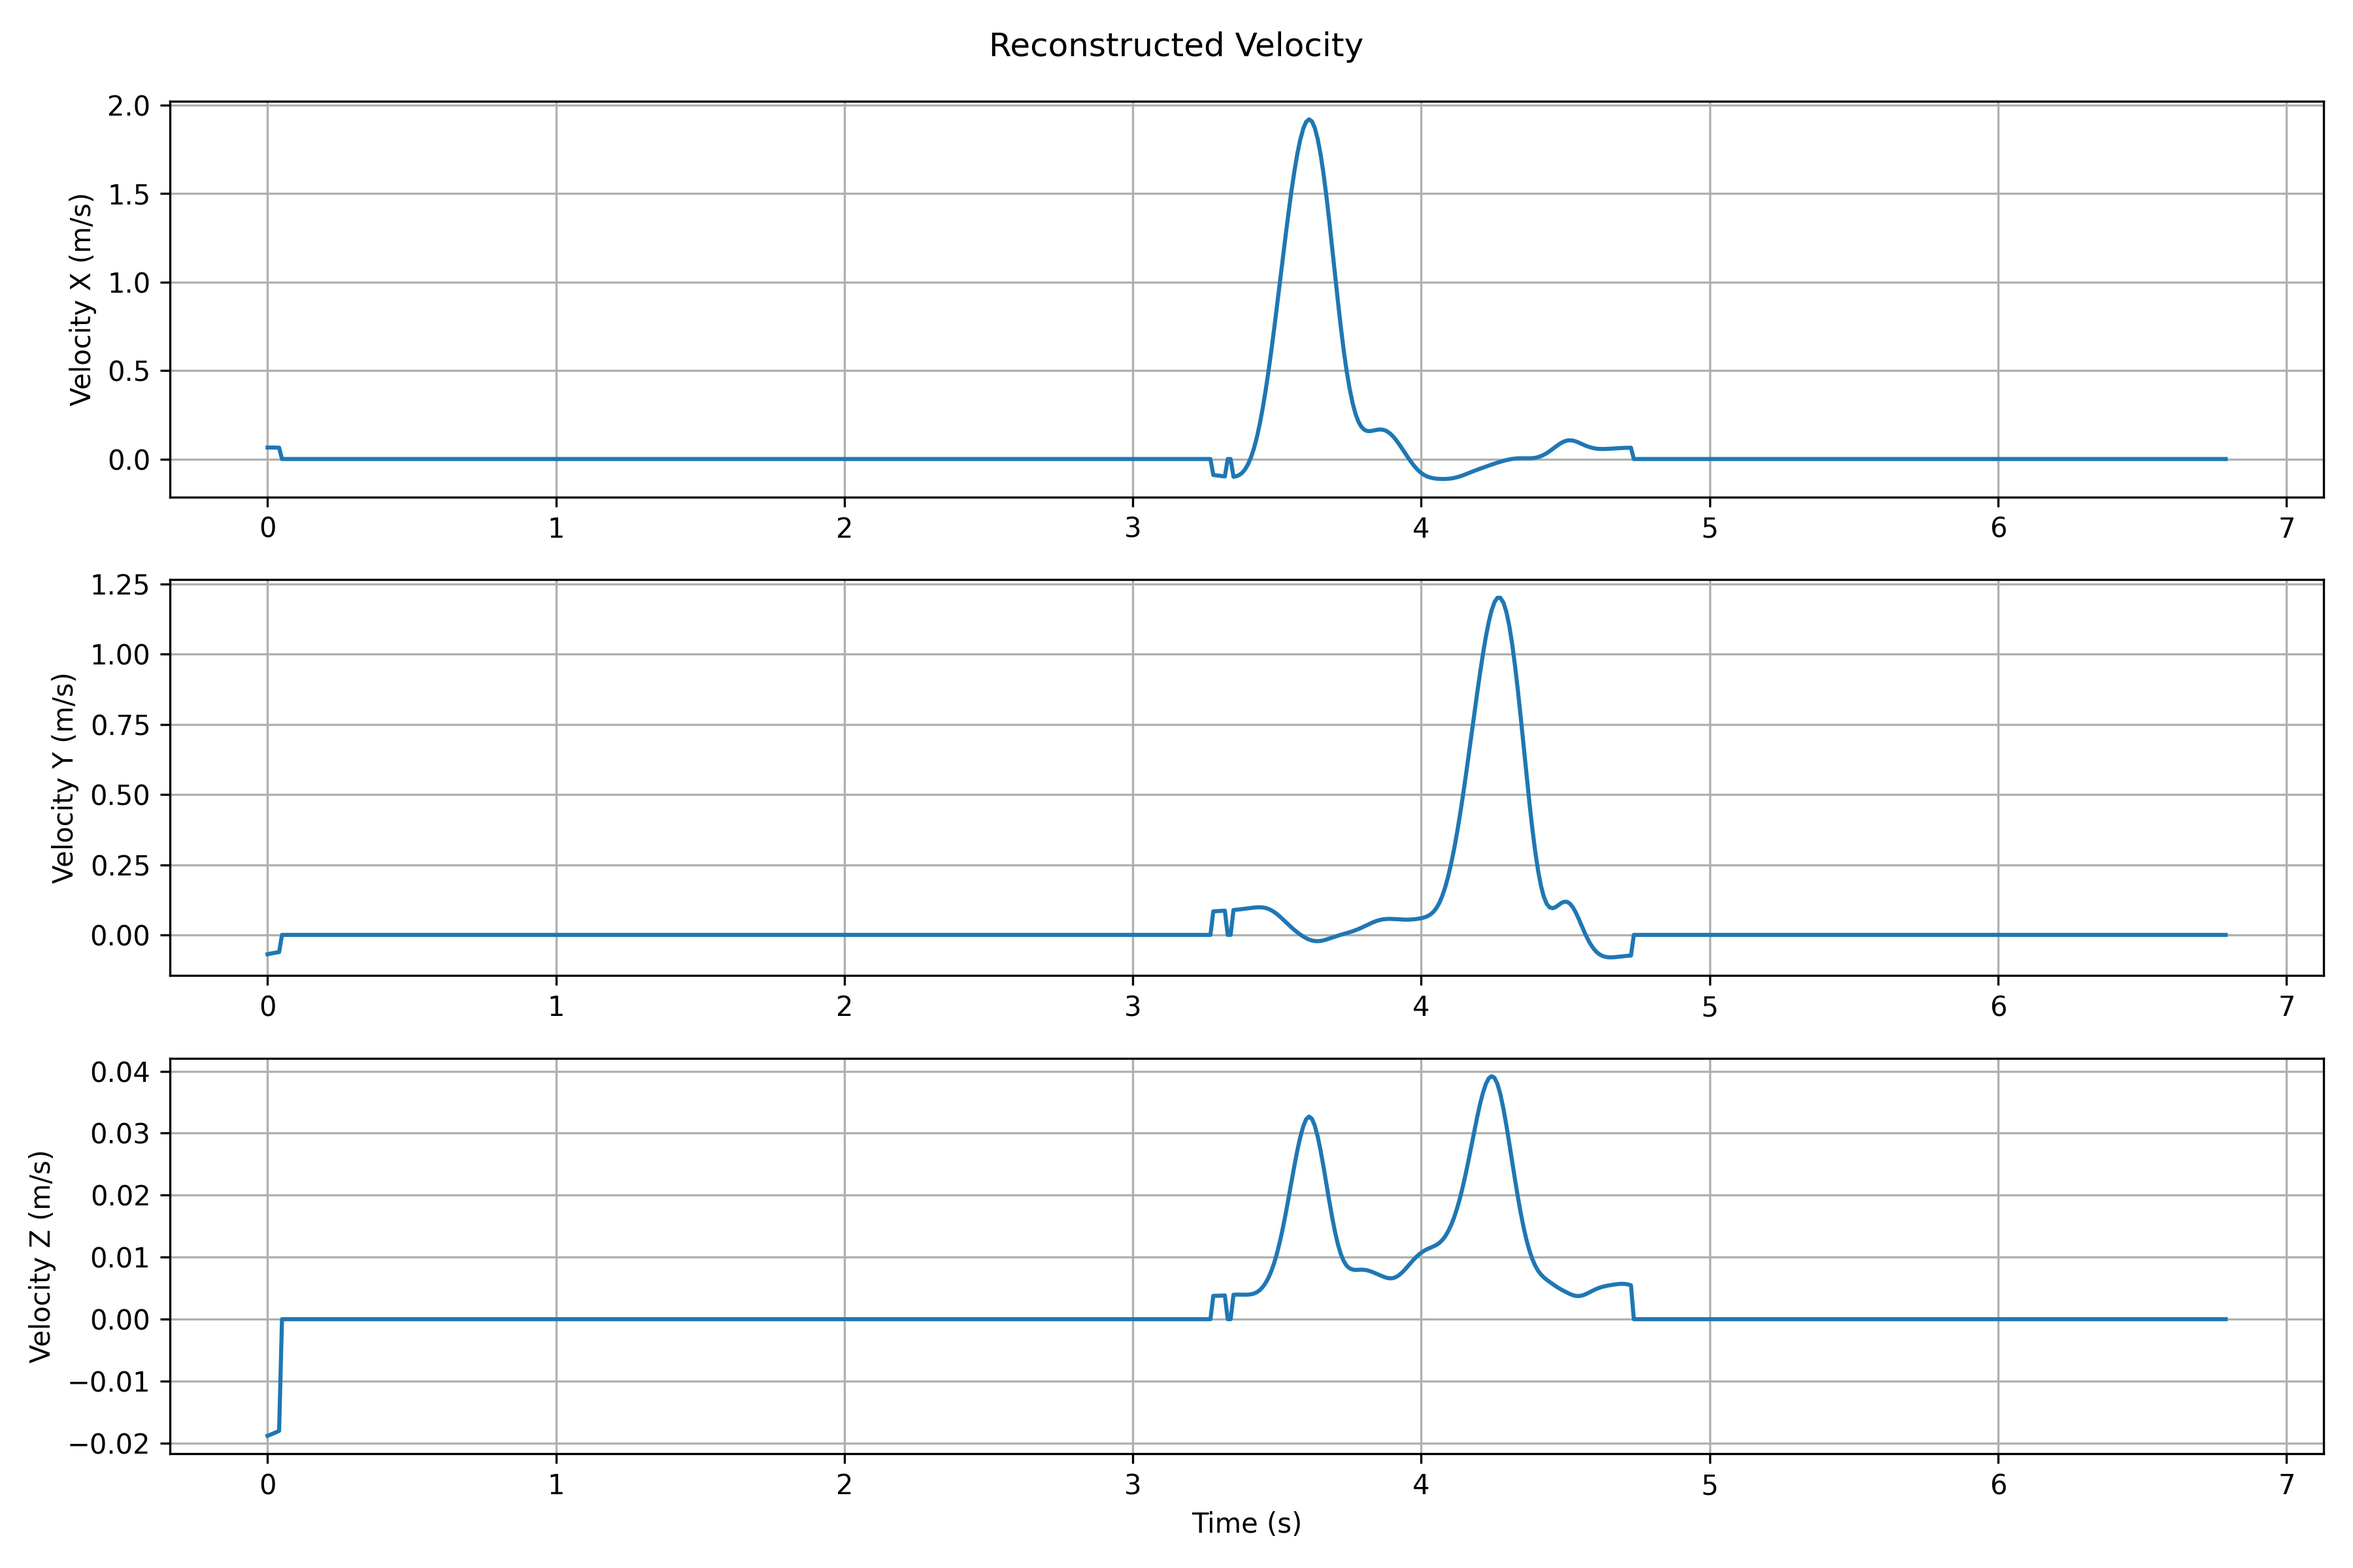
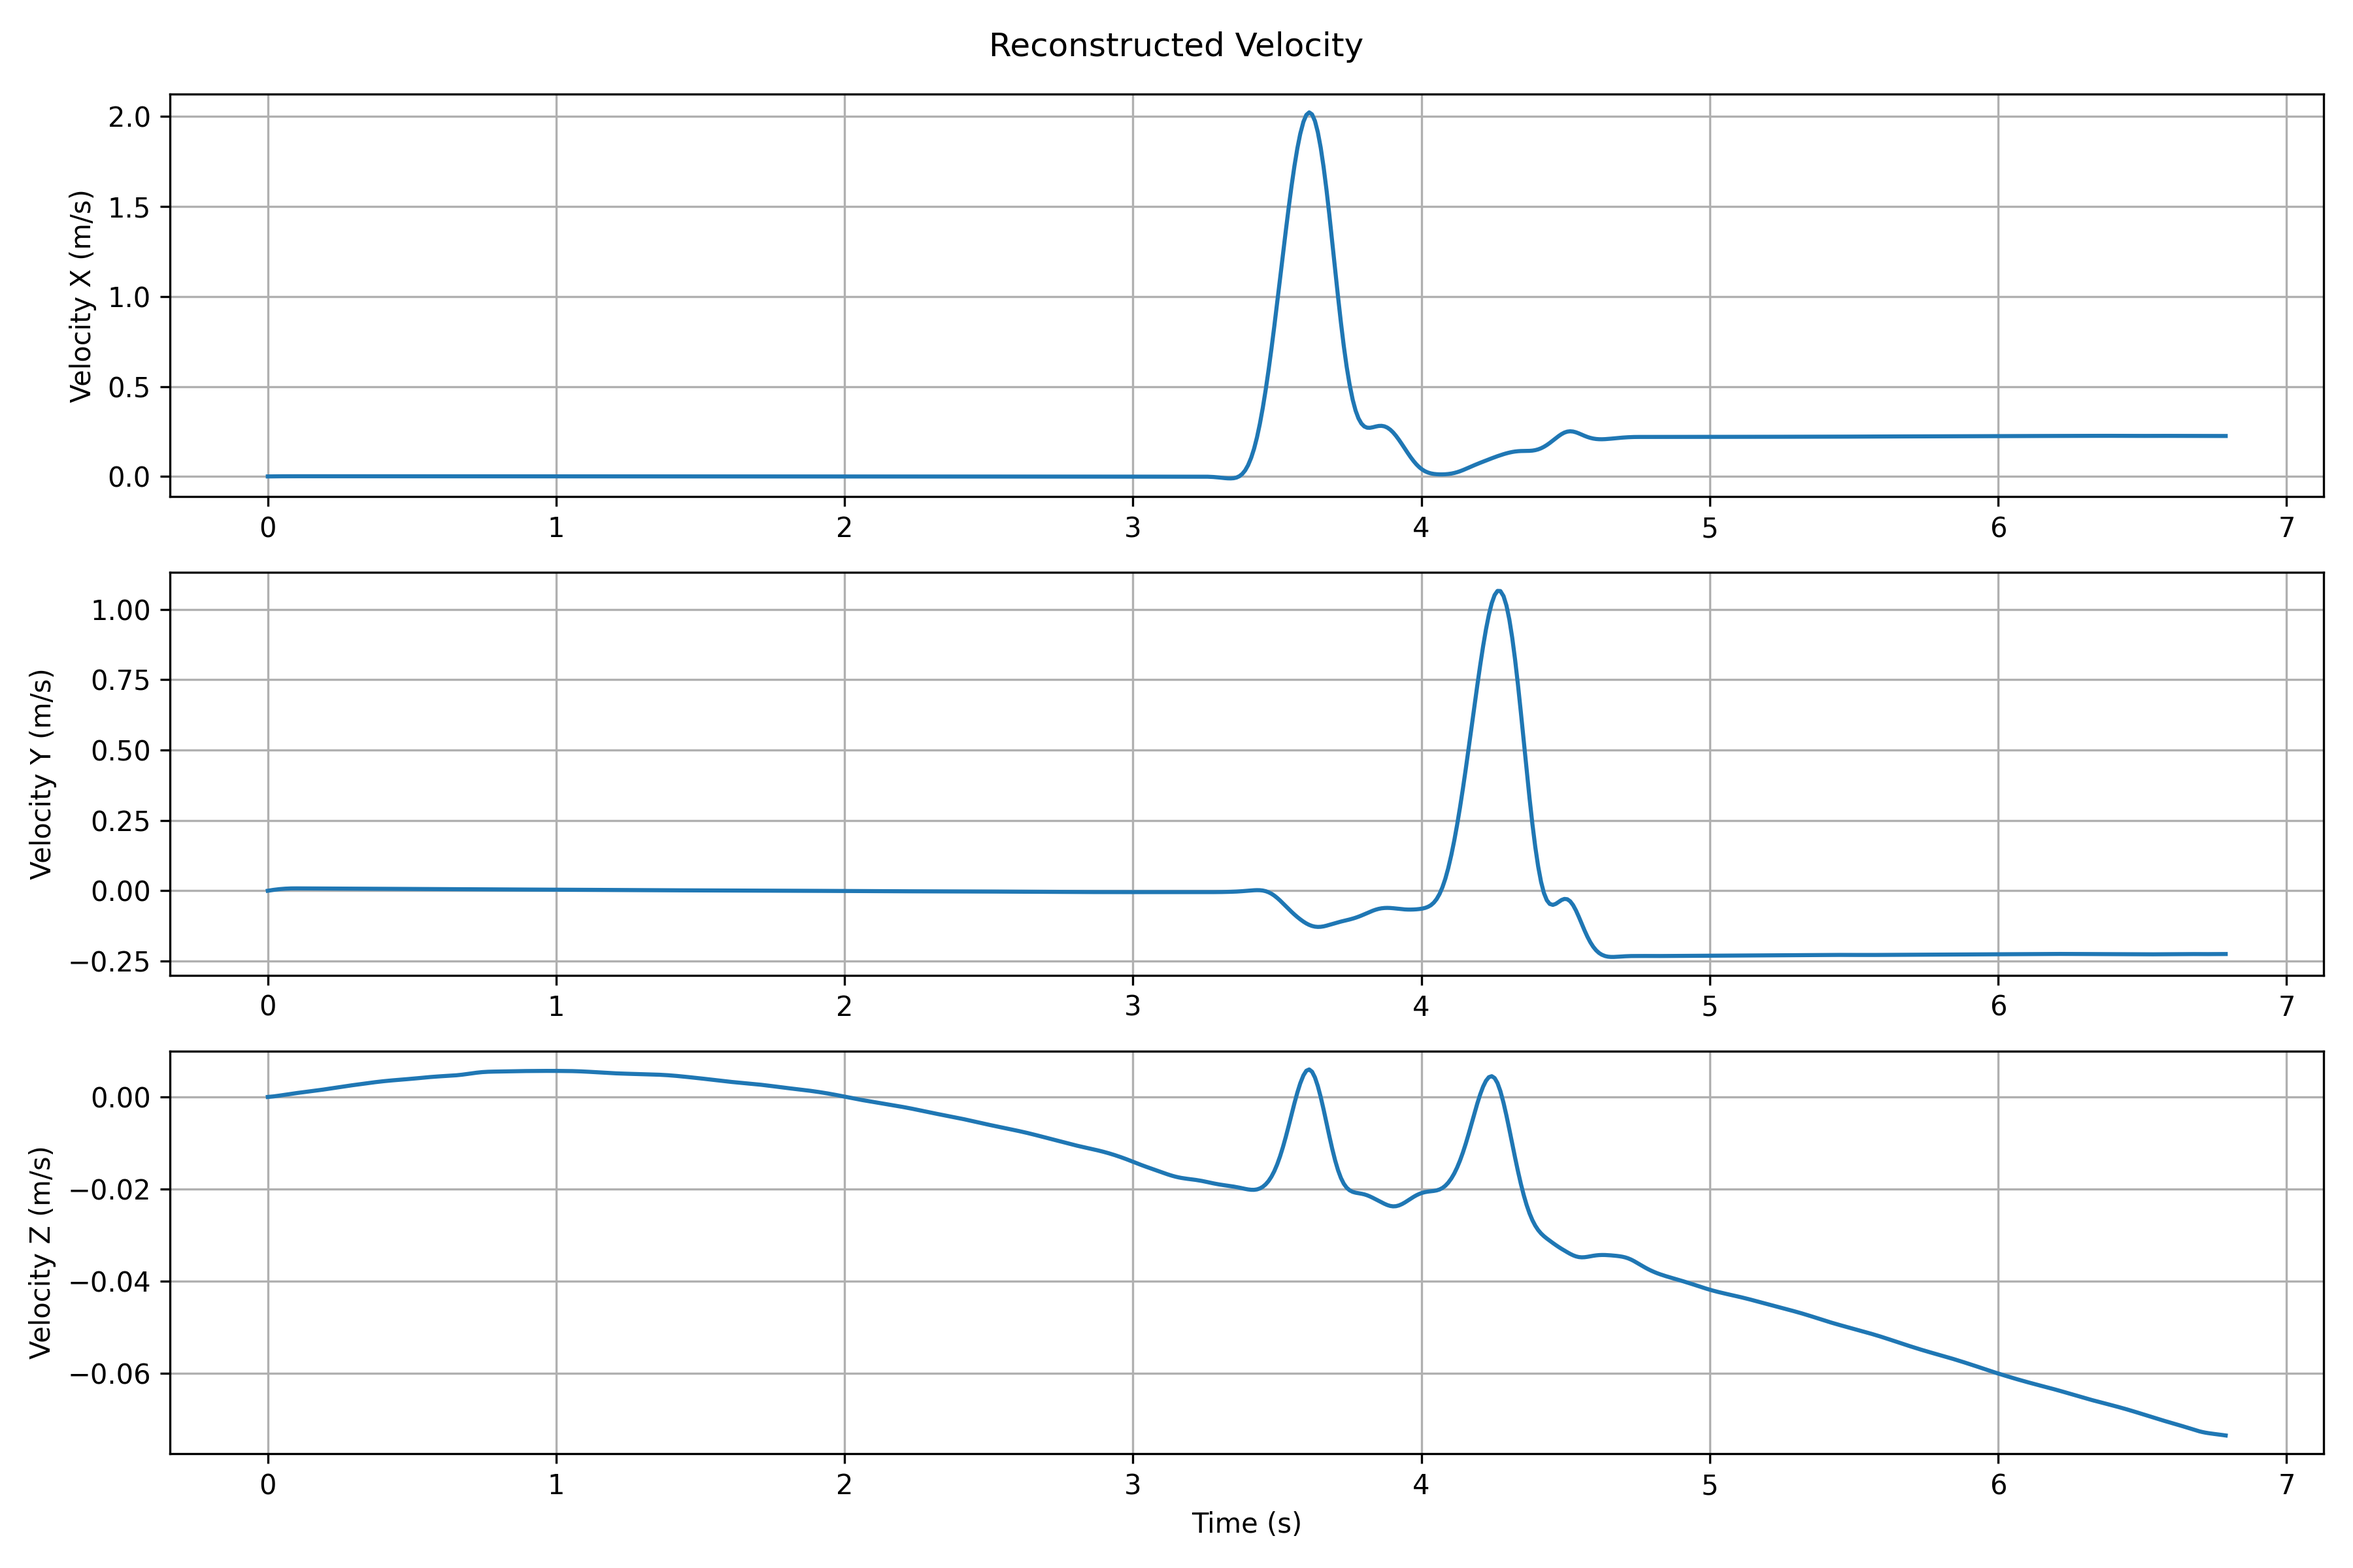
mit zupt

diff --git a/imu-workshop/schmalwieser_imu_tracking.py b/imu-workshop/schmalwieser_imu_tracking.py
@@ -291,92 +291,29 @@ plt.savefig('04_global_acceleration.png', dpi=300)
 
 
 
-# # Calculate time step for each sample
-# dt_array = df['time'].diff().fillna(0).values
-
-# # Initialize velocity and position arrays
-# velocity = np.zeros((len(df), 3))
-# position = np.zeros((len(df), 3))
-
-# # Extract acceleration arrays for efficient indexing
-# accel_x = df['accel_motion_x'].values
-# accel_y = df['accel_motion_y'].values
-# accel_z = df['accel_motion_z'].values
-
-# # Numerical integration using trapezoidal rule
-# for i in range(1, len(df)):
-#     # First integration: Acceleration → Velocity (trapezoidal rule)
-#     accel_current = np.array([accel_x[i], accel_y[i], accel_z[i]])
-#     accel_previous = np.array([accel_x[i-1], accel_y[i-1], accel_z[i-1]])
-#     velocity[i] = velocity[i-1] + 0.5 * (accel_previous + accel_current) * dt_array[i]
-    
-#     # Second integration: Velocity → Position (trapezoidal rule)
-#     position[i] = position[i-1] + 0.5 * (velocity[i-1] + velocity[i]) * dt_array[i]
-
-# # Store results
-# df['vel_x'] = velocity[:, 0]
-# df['vel_y'] = velocity[:, 1]
-# df['vel_z'] = velocity[:, 2]
-
-# df['pos_x'] = position[:, 0]
-# df['pos_y'] = position[:, 1]
-# df['pos_z'] = position[:, 2]
-
-
-# --- Integration mit einfacher Driftkorrektur (ZUPT-artig) ---
-
-# Zeitdifferenzen
+# Calculate time step for each sample
 dt_array = df['time'].diff().fillna(0).values
-t = df['time'].values
 
-# Arrays vorbereiten
+# Initialize velocity and position arrays
 velocity = np.zeros((len(df), 3))
 position = np.zeros((len(df), 3))
 
-# Beschleunigung (bereits: global, gravitationsfrei)
+# Extract acceleration arrays for efficient indexing
 accel_x = df['accel_motion_x'].values
 accel_y = df['accel_motion_y'].values
 accel_z = df['accel_motion_z'].values
 
-# 1) Erste Integration: a -> v (wie bisher, trapezoidal)
+# Numerical integration using trapezoidal rule
 for i in range(1, len(df)):
-    a_curr = np.array([accel_x[i],   accel_y[i],   accel_z[i]])
-    a_prev = np.array([accel_x[i-1], accel_y[i-1], accel_z[i-1]])
-    velocity[i] = velocity[i-1] + 0.5 * (a_prev + a_curr) * dt_array[i]
-
-# 2) Stationäre Phasen detektieren (sehr grob, aber reicht hier)
-acc_norm = np.sqrt(accel_x**2 + accel_y**2 + accel_z**2)
-gyro_norm = np.linalg.norm(df[['gyro_x', 'gyro_y', 'gyro_z']].values, axis=1)
-
-# Schwellen kannst du bei Bedarf anpassen:
-acc_thresh = 0.1   # m/s²
-gyro_thresh = 0.05 # rad/s
-stationary = (acc_norm < acc_thresh) & (gyro_norm < gyro_thresh)
-
-print(f"Stationary samples: {stationary.sum()} / {len(df)}")
-
-# 3) Drift als v(t) = a*t + b aus den stationären Punkten schätzen und abziehen
-vel_corrected = velocity.copy()
-for axis in range(3):
-    v = velocity[:, axis]
-    t_stat = t[stationary]
-    v_stat = v[stationary]
-    if len(t_stat) > 2:
-        A = np.vstack([t_stat, np.ones_like(t_stat)]).T
-        a, b = np.linalg.lstsq(A, v_stat, rcond=None)[0]  # lineares Fit
-        drift = a * t + b
-        vel_corrected[:, axis] = v - drift
-    # In stationären Phasen Geschwindigkeit hart auf 0 setzen
-    vel_corrected[stationary, axis] = 0.0
-
-velocity = vel_corrected
-
-# 4) Zweite Integration: v -> s mit korrigierter Geschwindigkeit
-position = np.zeros_like(velocity)
-for i in range(1, len(df)):
+    # First integration: Acceleration → Velocity (trapezoidal rule)
+    accel_current = np.array([accel_x[i], accel_y[i], accel_z[i]])
+    accel_previous = np.array([accel_x[i-1], accel_y[i-1], accel_z[i-1]])
+    velocity[i] = velocity[i-1] + 0.5 * (accel_previous + accel_current) * dt_array[i]
+    
+    # Second integration: Velocity → Position (trapezoidal rule)
     position[i] = position[i-1] + 0.5 * (velocity[i-1] + velocity[i]) * dt_array[i]
 
-# Ergebnisse ins DataFrame schreiben
+# Store results
 df['vel_x'] = velocity[:, 0]
 df['vel_y'] = velocity[:, 1]
 df['vel_z'] = velocity[:, 2]
@@ -384,6 +321,9 @@ df['vel_z'] = velocity[:, 2]
 df['pos_x'] = position[:, 0]
 df['pos_y'] = position[:, 1]
 df['pos_z'] = position[:, 2]
+
+
+
 
 
 
@@ -507,3 +447,49 @@ print(f"End position: {end_pos}")
 # actual_distance = 1.0  # meters (your measurement)
 # error = abs(reconstructed_distance - actual_distance)
 # print(f"Error: {error:.3f} meters ({error/actual_distance*100:.1f}%)")
+
+
+
+
+# Calculate acceleration magnitude in global frame
+accel_magnitude = np.sqrt(
+    df['accel_motion_x']**2 + 
+    df['accel_motion_y']**2 + 
+    df['accel_motion_z']**2
+)
+
+# Define stationary threshold
+stationary_threshold = 0.2  # m/s²
+is_stationary = accel_magnitude < stationary_threshold
+
+# Apply ZUPT: reset velocity during stationary periods
+velocity_zupt = velocity.copy()
+for i in range(len(df)):
+    if is_stationary.iloc[i]:
+        velocity_zupt[i] = np.array([0.0, 0.0, 0.0])
+
+# Reintegrate position with ZUPT-corrected velocity using trapezoidal rule
+position_zupt = np.zeros((len(df), 3))
+for i in range(1, len(df)):
+    position_zupt[i] = position_zupt[i-1] + 0.5 * (velocity_zupt[i-1] + velocity_zupt[i]) * dt_array[i]
+
+# Compare trajectories
+fig, (ax1, ax2) = plt.subplots(1, 2, figsize=(16, 6))
+
+ax1.plot(position[:, 0], position[:, 1], label='Without ZUPT')
+ax1.set_xlabel('X (m)')
+ax1.set_ylabel('Y (m)')
+ax1.set_title('Trajectory Without ZUPT')
+ax1.axis('equal')
+ax1.grid(True)
+
+ax2.plot(position_zupt[:, 0], position_zupt[:, 1], label='With ZUPT', color='orange')
+ax2.set_xlabel('X (m)')
+ax2.set_ylabel('Y (m)')
+ax2.set_title('Trajectory With ZUPT')
+ax2.axis('equal')
+ax2.grid(True)
+
+plt.tight_layout()
+plt.savefig('08_zupt_comparison.png', dpi=300)
+plt.show()
